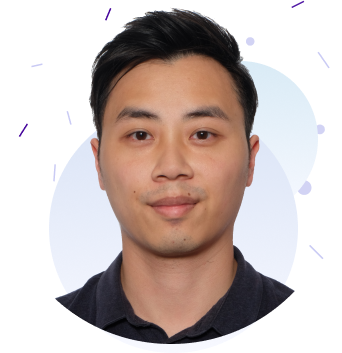
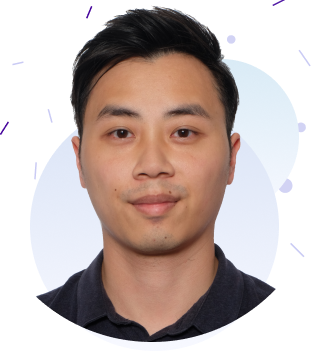
update

diff --git a/index.html b/index.html
@@ -59,9 +59,10 @@
 
   <div class="topcurve"><img src="img/topcurve.svg" alt=""></div>
   <div id="blur1"><img src="img/blueblur1.svg"></div>
-  <div id="blur2"><img src="img/purpleblur1.svg"></div>
-  <div id="blur3"><img src="img/greenblur1.svg"></div>
   <div id="blur4"><img src="img/blueblur2.svg"></div>
+    <div id="blur2"><img src="img/purpleblur1.svg"></div>
+  <div id="blur3"><img src="img/greenblur1.svg"></div>
+
   <div id="blur5"><img src="img/purpleblur2.svg"></div>
   
   <div id="circle1"><img src="img/circle1.svg"></div>
@@ -87,12 +88,12 @@
     <section class="skillsContainer even-columns">
       <div class="skillItem">
         <div class="skillIcon"><img src="img/stakeholdermgmt.svg"></div>
-        <h3>Stakeholder Management</h3>
+        <h3>Stakeholder Mgmt</h3>
         <p>Requirement gathering, idea conceptualization, business analysis </p>
       </div>
       <div class="skillItem">
         <div class="skillIcon"><img src="img/design.svg"></div>
-        <h3>Design</h3>
+        <h3>UI/UX Design</h3>
         <p>Wireframes, rapid prototyping, & usability testing</p>
       </div>
       <div class="skillItem">
@@ -102,26 +103,7 @@
       </div>
     </section>
 
-    <section class="featuredWork right">
-      <div class="videoContainer">
-        <video class="videoFrame" controls playsinline loop autoplay>
-          <source src="findhouse.mp4" type="video/mp4">
-          Your browser does not support the video tag.
-        </video>
-        <div class="blurBlue"><img src="img/blueblur1.svg"></div>
-        <div class="blurPurple"><img src="img/purpleblur1.svg"></div>
-        <div class="waveBlue"><img src="img/bluewaves.svg"></div>
-        <div class="wavePurple"><img src="img/purplewaves.svg"></div>
-      </div>
 
-      <div class="textContainer">
-        <img class="appIcon" src="img/findhouseicon.svg">
-        <em class="subtitle">A CONCEPTUAL IDEA</em>
-        <h2>Real Estate<span class="highlight">Concepts</span></h2>
-        <p>Introducing the new real estate app that puts you right in the middle of the action. With our app, you can view property information, take virtual reality tours, and communicate with agents via live chat. Get a 360-degree view of the properties you’re interested in, and ask questions in real-time to get instant answers.</p>
-        <a href="findhouse.html" class="button">See details</a>
-      </div>
-    </section>
 
     <section class="featuredWork left">
       <div class="videoContainer">
@@ -139,7 +121,7 @@
         <img class="appIcon" src="img/concepticon.svg">
         <em class="subtitle">A CONCEPTUAL IDEA</em>
         <h2>Digital Banking<span class="highlight">Concepts</span></h2>
-        <p>See how the next generation digital banking application can enhance customer experience</p>
+        <p>See how the next generation digital banking application can enhance customer experience. Complete with spending analysis, cards management, and task reminders.</p>
         <a href="bankingconcept.html" class="button">See details</a>
       </div>
     </section>
@@ -160,14 +142,34 @@
         <img class="appIcon" src="img/ploanicon.svg">
         <em class="subtitle">CASE STUDY</em>
         <h2>Personal Loan<span class="highlight">Revamp</span></h2>
-        <p>Learn how UX flow can be improved for your organization</p>
+        <p>A case study of personal loan revamp project. Learn how UX issues are identified and addressed, and improved user experience can drive up your business</p>
         <a href="ploan.html" class="button">See details</a>
       </div>
     </section>
 
+    <section class="featuredWork left">
+      <div class="videoContainer">
+        <video class="videoFrame" controls playsinline loop autoplay>
+          <source src="findhouse.mp4" type="video/mp4">
+          Your browser does not support the video tag.
+        </video>
+        <div class="blurBlue"><img src="img/blueblur1.svg"></div>
+        <div class="blurPurple"><img src="img/purpleblur1.svg"></div>
+        <div class="waveBlue"><img src="img/bluewaves.svg"></div>
+        <div class="wavePurple"><img src="img/purplewaves.svg"></div>
+      </div>
+
+      <div class="textContainer">
+        <img class="appIcon" src="img/findhouseicon.svg">
+        <em class="subtitle">A CONCEPTUAL IDEA</em>
+        <h2>Real Estate<span class="highlight">Concepts</span></h2>
+        <p>View property information, take virtual reality tours, and communicate with agents via live chat. Get a 360-degree view of the properties you’re interested in, and ask questions in real-time to get instant answers.</p>
+        <a href="findhouse.html" class="button">See details</a>
+      </div>
+    </section>
 
     <section class="workContainer">
-      <h2 class="moreWorks">More works</h2>
+      <h3 class="moreWorks">More works</h3>
       <div class="even-columns">
 
 

diff --git a/style.css b/style.css
@@ -23,9 +23,9 @@
   --fs-400: 0.875rem;
   --fs-500: 0.9375rem;
   --fs-600: 1rem;
-  --fs-700: 1.575rem;
+  --fs-700: 1.775rem;
   --fs-800: 2.5rem;
-  --fs-900: 3.5rem;
+  --fs-900: 3.0rem;
 
   --fs-body: var(--fs-400);
   --fs-primary-heading: var(--fs-700);
@@ -205,7 +205,7 @@ main {
 .heroContent {
   position: relative;
   z-index: 1;
-  order: -1;
+  /*order: -1;*/
   width: calc(70.66% - 2em);
 }
 
@@ -236,18 +236,18 @@ main {
 }
 
 #blur2 {
-  left: 200px;
-  top: -300px;
+  left: 300px;
+  top: -100px;
 }
 
 #blur3 {
   left: 200px;
-  top: -10px;
+  top: 40px;
 }
 
 #blur4 {
   top: -400px;
-  right: 0px;
+  right: -180px;
 
 }
 
@@ -301,17 +301,17 @@ main {
   
   background-color: #ffffff;
   display: inline;
-  line-height: 160%;
-  padding: 14px 0;
+  line-height: 140%;
+  padding: 8px 0;
 }
 
 .highlight {
-
-  
+color:rgba(68, 3, 155, 1);
   padding: 2px 10px;
-  background: -webkit-linear-gradient(45deg,#511AA5, #008A9C);
+  /*background: -webkit-linear-gradient(45deg,#511AA5, #008A9C);
   -webkit-background-clip: text;
   -webkit-text-fill-color: transparent;
+  */
 }
 
 .heroContainer .heroSub {
@@ -376,7 +376,7 @@ main {
 
 /* -- SKILL AREA -- */
 .skillsContainer {
-  margin-bottom: 160px;
+  margin-bottom: 140px;
   padding: 0 80px;
 }
 
@@ -385,7 +385,9 @@ main {
   font-weight: var(--fw-semi-bold);
   margin-bottom: 10px;
 }
-
+ p {
+  opacity: 0.6;
+}
 .skillIcon {
   margin: 0 0 -20px -30px;
 }
@@ -411,7 +413,7 @@ main {
   /*overflow: hidden;*/
   display: flex;
   gap: 60px;
-  margin: 150px 0 60px 0;
+  margin: 140px 0 60px 0;
 }
 
 
@@ -424,7 +426,7 @@ main {
   z-index: 1;
   width: 100%;
   max-width: 360px;
-  box-shadow: 0px 30px 40px rgba(23,12,33,0.5);
+  /*box-shadow: 0px 30px 40px rgba(23,12,33,0.5);*/
 }
 
 .videoContainer {
@@ -594,7 +596,7 @@ main {
 .workContainer {
   display: flex;
   flex-flow: column wrap;
-  gap: 50px;
+  gap: 30px;
 }
 
 @media (max-width: 50em) {
